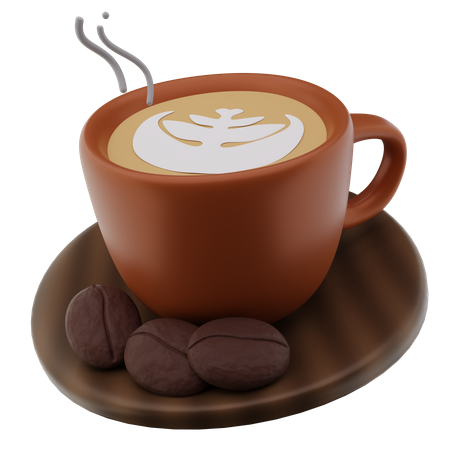
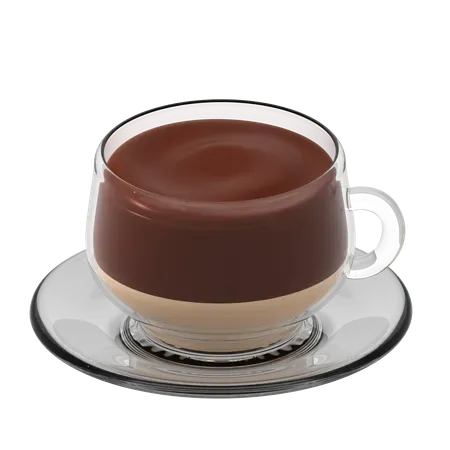
.add image

diff --git a/src/App.jsx b/src/App.jsx
@@ -17,25 +17,25 @@ function App() {
       name: "Espreeso macchiato",
       price: "$12",
       description: "A rich and bold coffee brewed from high-quality beans.",
-      img: "/images/Group20.svg",
+      img: "/public/images/Machiaato.png",
     },
     {
       name: "Americano",
       price: "$15",
       description: "A rich and bold coffee brewed from high-quality beans.",
-      img: "/images/Group20.svg",
+      img: "/public/images/AmericanoCoffee.png",
     },
     {
       name: "Espresso con Panna",
       price: "$24",
       description: "A rich and bold coffee brewed from high-quality beans.",
-      img: "/images/Group20.svg",
+      img: "/public/images/Expresso.png",
     },
     {
       name: "Cappuccino",
       price: "$32",
       description: "A rich and bold coffee brewed from high-quality beans.",
-      img: "/images/Group20.svg",
+      img: "/public/images/CappuchinoCoffee.png",
     },
   ];
 

diff --git a/src/components/navbar/CircularMenu.jsx b/src/components/navbar/CircularMenu.jsx
@@ -68,9 +68,9 @@ const CircularMenu = ({ menu, onClick }) => {
                   ${index === 3 && "top-1/2 left-[5%] -translate-y-1/2"}`}
               >
                 <img
-                  src="/images/Group20.svg"
+                  src={item.img}
                   alt={item.name}
-                  className="w-[50px] h-auto mb-2"
+                  className="w-[100px] h-auto mb-2"
                 />
                 <h3 className="my-[5px] text-lg">
                   {item.name} {item.price}
